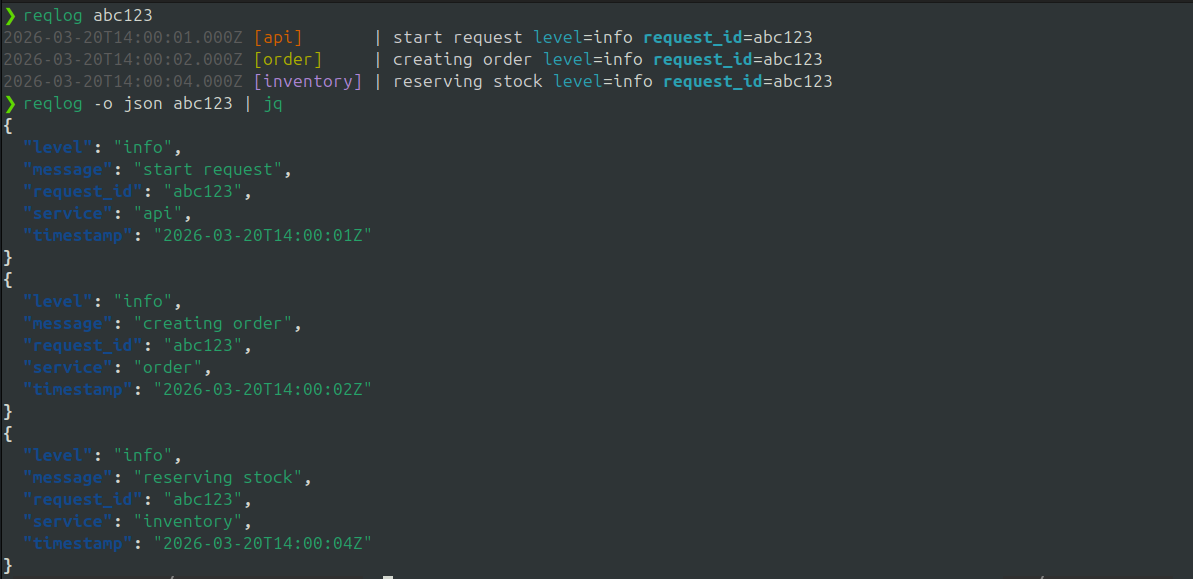
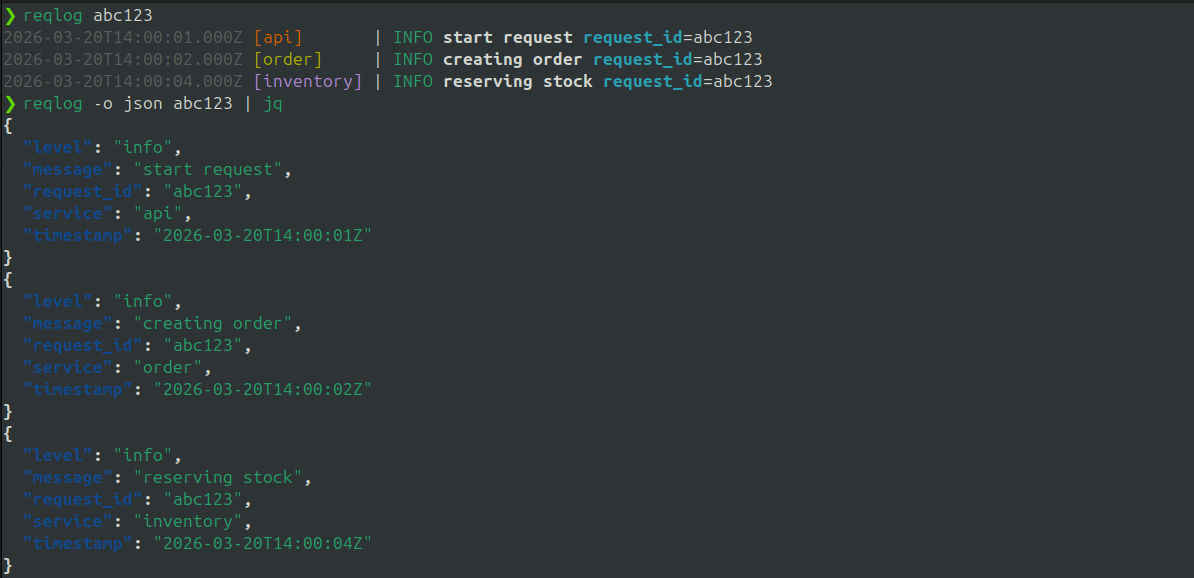
docs: update demo assets and README output example

diff --git a/README.md b/README.md
@@ -98,9 +98,9 @@ reqlog -H srv1,srv2 abc123
 Example output:
 
 ```text
-2026-03-20T14:10:01.000Z [api-gateway]       | calling order service level=info request_id=abc123
-2026-03-20T14:10:02.000Z [order-service]     | fetching order level=info request_id=abc123
-2026-03-20T14:10:03.000Z [inventory-service] | checking stock level=info request_id=abc123
+2026-03-20T14:10:01.000Z [api-gateway]       | INFO calling order service request_id=abc123
+2026-03-20T14:10:02.000Z [order-service]     | INFO fetching order request_id=abc123
+2026-03-20T14:10:03.000Z [inventory-service] | INFO checking stock request_id=abc123
 ```
 
 ## Installation
